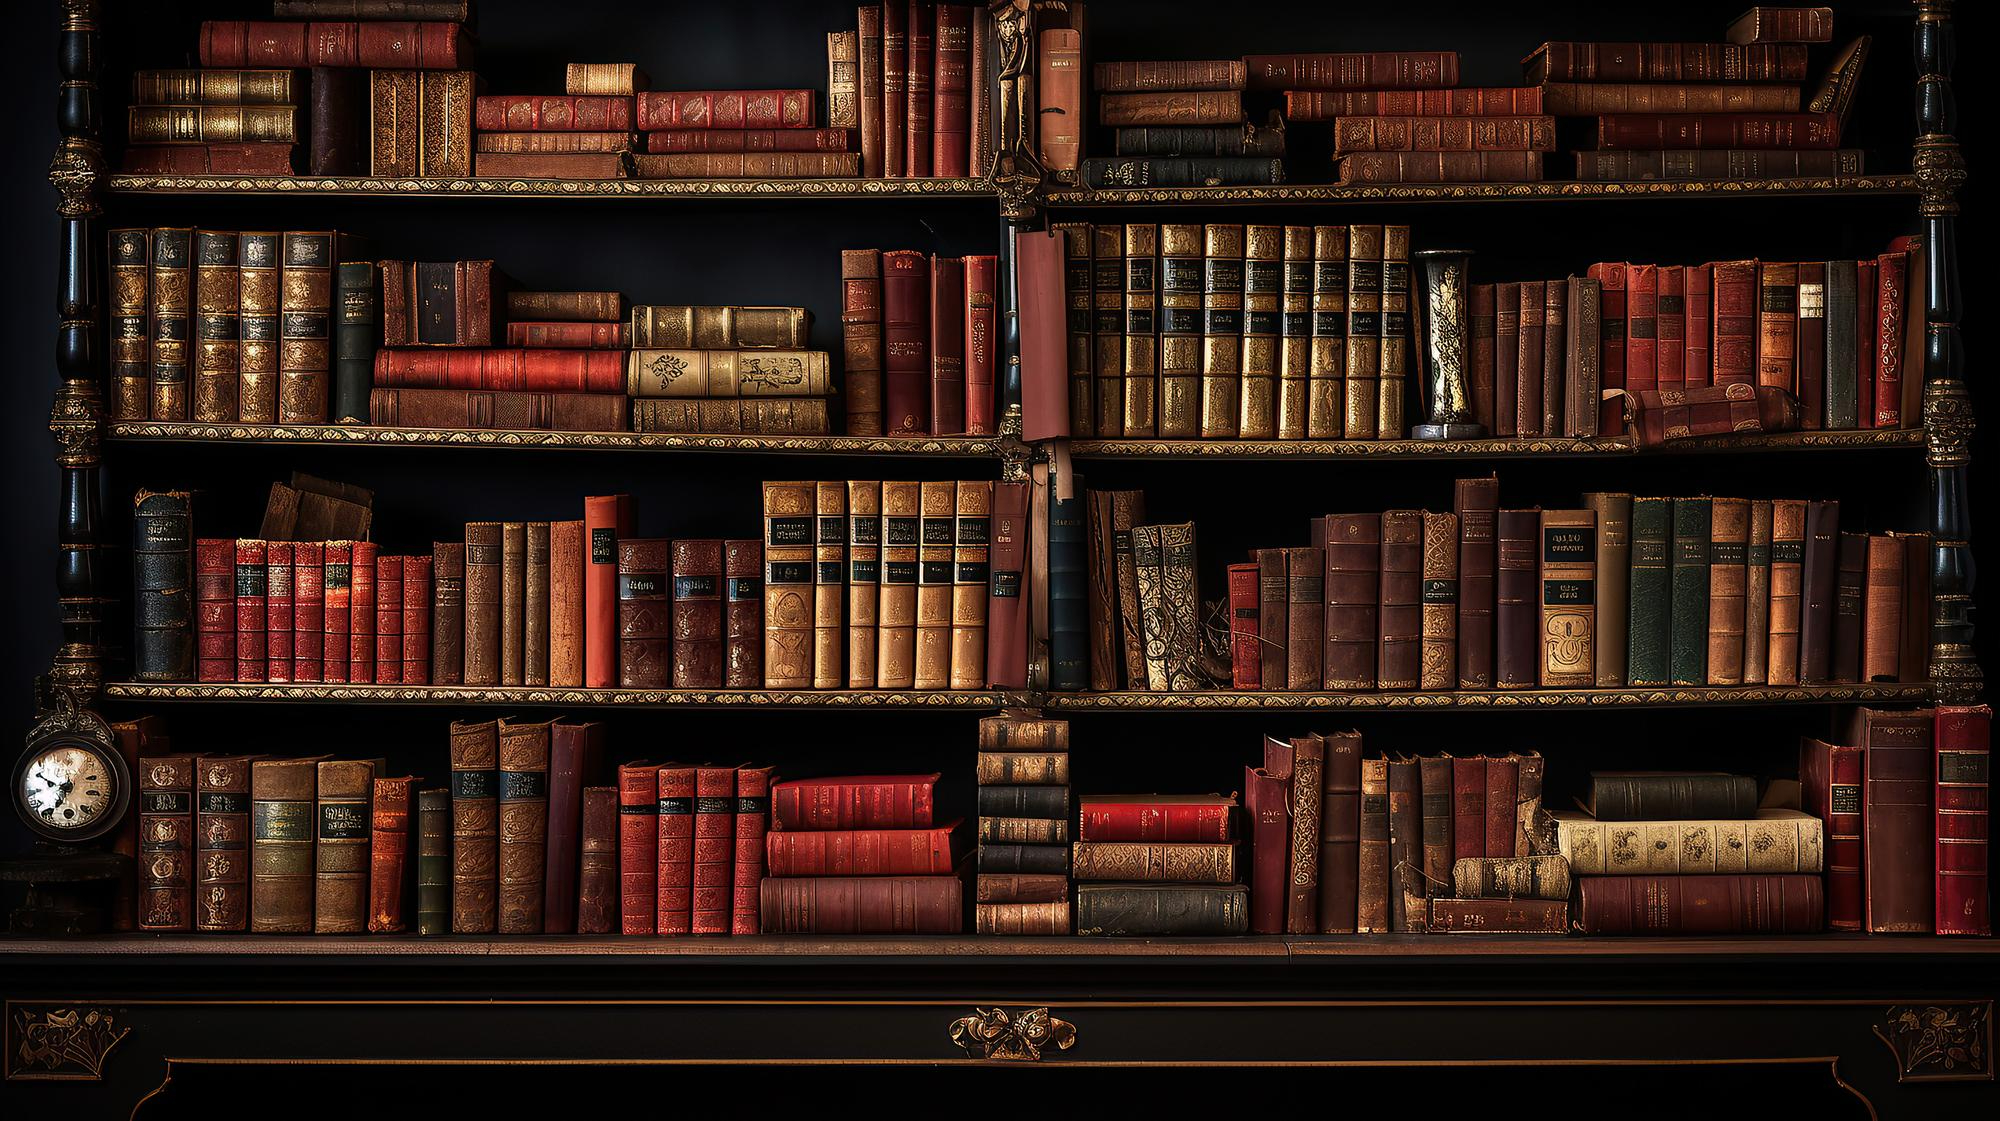
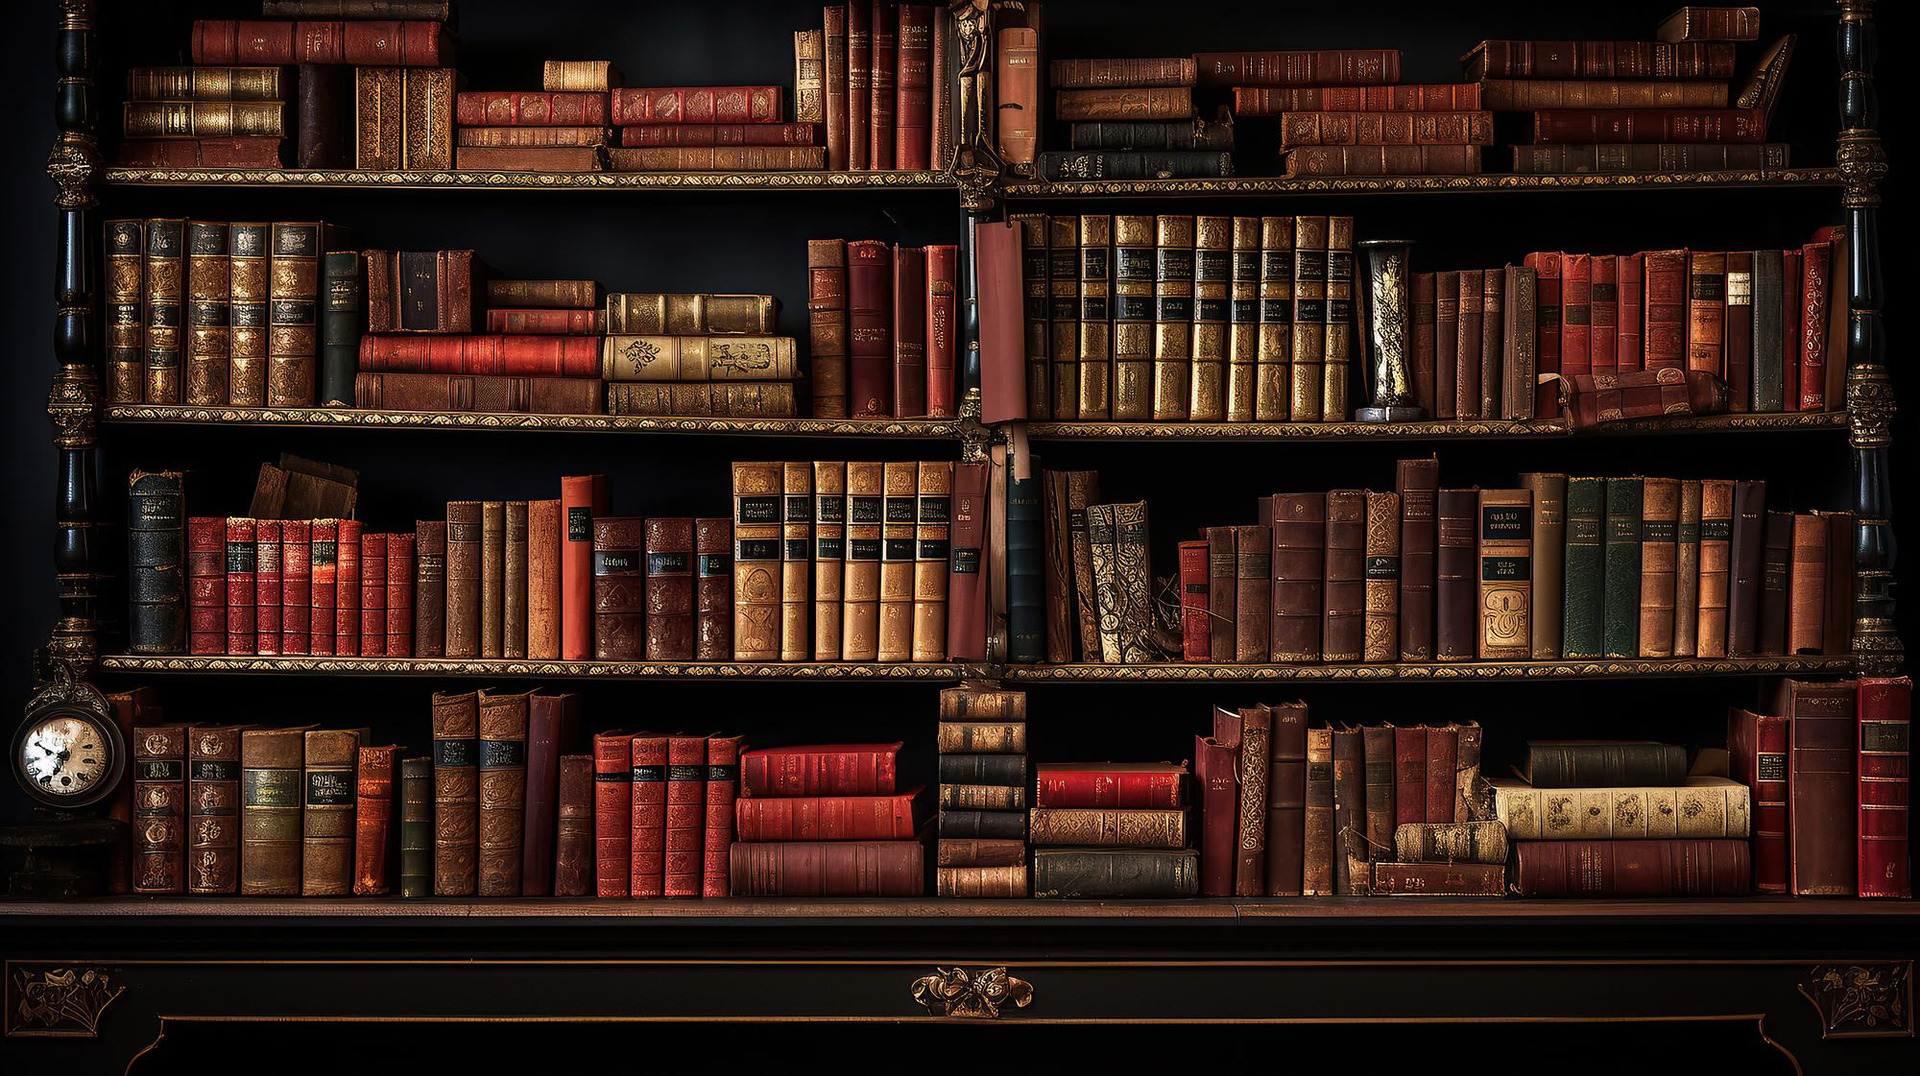
Content

diff --git a/digitallibrary/abouttheauthors.html b/digitallibrary/abouttheauthors.html
@@ -1,0 +1,88 @@
+<!DOCTYPE html>
+<html lang="en">
+
+<head>
+    <meta charset="UTF-8">
+    <meta name="viewport" content="width=device-width, initial-scale=1.0">
+    <title>About The Authors</title>
+    <link rel="stylesheet" href="styles/style.css">
+</head>
+
+<body>
+    <header>
+
+        <a id="logo_link" href="index.html">
+            <img class="logo" src="images/personal-website-logo.png" alt="Digital Library Logo">
+        </a>
+        <nav>
+            <a href="index.html">Home</a>
+            <a href="abouttheauthors.html">About the Authors</a>
+            <a href="contactus.html">Contact Us</a>
+            <a href="site-plan.html">Site Plan</a>
+        </nav>
+
+    </header>
+
+    <main class="authors_main">
+
+        <div class="grid_me">
+            <div class="authors">
+                <img class="author_img" src="images/brandon_sanderson.JPG" alt="Brandon Sanderson Profile">
+                <h3> Brandon Sanderson</h3>
+                <p>
+                    Brandon Sanderson is a highly acclaimed American author known for his contributions to the fantasy
+                    and science fiction genres. He is recognized for his imaginative world-building, intricate magic
+                    systems, and compelling characters. Sanderson's notable works include the "Mistborn" series, the
+                    "Stormlight Archive" series, and his completion of Robert Jordan's "The Wheel of Time" series. He is
+                    also known for his meticulous and prolific writing, engaging with his readers through social media,
+                    and his contributions to the genre as both an author and educator, as he teaches creative writing at
+                    Brigham Young University. Sanderson has gained a devoted following of readers who appreciate his
+                    unique storytelling style and his dedication to expanding the boundaries of speculative fiction Some
+                    of their works: Mistborn Trilogy: "Mistborn: The Final Empire" "Mistborn: The Well of Ascension"
+                    "Mistborn: The Hero of Ages" Stormlight Archive Series: "The Way of Kings" "Words of Radiance"
+                    "Oathbringer" "Rhythm of War" (as of my last knowledge update in January 2022, this book was
+                    scheduled for release) The Reckoners Series: "Steelheart" "Firefight" "Calamity" Elantris
+                    (standalone novel) Warbreaker (standalone novel) White Sand (a graphic novel series) Alcatraz vs.
+                    the Evil Librarians Series (a humorous fantasy series): "Alcatraz vs. the Evil Librarians" "The
+                    Scrivener's Bones" "The Knights of Crystallia" "The Shattered Lens" "The Dark Talent" Legion Series:
+                    "Legion" "Legion: Skin Deep" "Legion: Lies of the Beholder" The Rithmatist (young adult fantasy)
+                    Skyward Series: "Skyward" "Starsight" The Wheel of Time (completed Robert Jordan's epic fantasy
+                    series with the final three books): "The Gathering Storm" "Towers of Midnight" "A Memory of Light"
+                </p>
+            </div>
+
+
+            <div class="authors">
+                <img class="author_img" src="images/jrr-tolkien.JPG" alt="J.R.R Tolkien">
+                <h3>J.R.R Tolkien</h3>
+                <p>
+                    J.R.R. Tolkien, whose full name is John Ronald Reuel Tolkien, was an English writer, poet,
+                    philologist, and professor. He is best known for his contributions to the fantasy genre and is
+                    considered one of the most influential fantasy authors of the 20th century. Tolkien's works are
+                    celebrated for their rich world-building, intricate languages, and epic storytelling. Some of their
+                    works: "The Hobbit" (1937) "The Lord of the Rings" trilogy: "The Fellowship of the Ring" (1954) "The
+                    Two Towers" (1954) "The Return of the King" (1955) "The Silmarillion" (1977) "The Children of Húrin"
+                    (2007) "Unfinished Tales of Númenor and Middle-earth" (1980) "The History of Middle-earth" series
+                    "The Book of Lost Tales, Part I" (1983) "The Book of Lost Tales, Part II" (1984) "The Lays of
+                    Beleriand" (1985) "The Shaping of Middle-earth" (1986) "The Lost Road and Other Writings" (1987)
+                    "The Return of the Shadow" (1988) "The Treason of Isengard" (1989) "The War of the Ring" (1990)
+                    "Sauron Defeated" (1992) "Morgoth's Ring" (1993) "The War of the Jewels" (1994) "The Peoples of
+                    Middle-earth" (1996)
+
+                </p>
+            </div>
+
+        </div>
+
+
+    </main>
+
+
+    <footer>
+        <p>Digital Library &copy; 2023 - Ryan Lyman</p>
+        <p><a href="site-plan.html">Site Plan</a></p>
+        <p><a href="contactus.html">Have Questions? Contact Us</a></p>
+    </footer>
+</body>
+
+</html>

diff --git a/digitallibrary/index.html b/digitallibrary/index.html
@@ -1,0 +1,113 @@
+<!DOCTYPE html>
+<html lang="en">
+
+<head>
+    <meta charset="UTF-8">
+    <meta name="viewport" content="width=device-width, initial-scale=1.0">
+    <title>Digital Library</title>
+    <link rel="stylesheet" href="styles/style.css">
+</head>
+
+<body>
+    <header>
+
+        <a id="logo_link" href="index.html">
+            <img class="logo" src="images/personal-website-logo.png" alt="Digital Library Logo">
+        </a>
+        <nav>
+            <a href="index.html">Home</a>
+            <a href="abouttheauthors.html">About the Authors</a>
+            <a href="contactus.html">Contact Us</a>
+            <a href="site-plan.html">Site Plan</a>
+        </nav>
+
+    </header>
+    <div id="hero">
+        <div id="hero-box">
+            <img id="hero_img" src="images/hero.jpg" alt="Old Bookshelf">
+        </div>
+
+        <main class = "home_main">
+            <div class="grid_me">
+                <div class="books">
+                    <img class="book_img" src="images/steelheart.jpg" alt="Steelheart Book Cover">
+                    <h3> Steelheart</h3>
+                    <p> Our Ratings: 90/100 Community Ratings: Cooming Soon!
+                        "Steelheart" by Brandon Sanderson is an exciting and inventive entry into the young adult
+                        dystopian genre.
+                        The story is set in a world where people with extraordinary powers, known as Epics, rule with an
+                        iron fist,
+                        and
+                        the main character, David, is on a quest for revenge against one of the most powerful Epics of
+                        all:
+                        Steelheart.
+
+                        Sanderson's writing is engaging, and his world-building is top-notch as he explores the
+                        consequences of
+                        superhuman
+                        abilities in a gritty and dangerous setting. The story is filled with action, suspense, and a
+                        touch of
+                        humor, making
+                        it a page-turner for readers of all ages. "Steelheart" is a fresh and original take on the
+                        superhero genre,
+                        and it's a
+                        must-read for those who enjoy action-packed adventures and exploring the moral complexities of
+                        power and
+                        vengeance.
+
+                        Buy
+                        Amazon
+                        Barns and Noble
+                        Thrift Books
+                        Book Shop
+
+                    </p>
+                </div>
+
+
+                <div class="books">
+                    <img class="book_img" src="images/the-fellowship-of-the-ring.jpg"
+                        alt="The Fellowship of the Rings Book Cover">
+                    <h3>The Fellowship of the Rings</h3>
+                    <p> Ratings : 95/100 Community Ratings: Cooming Soon!
+
+                        "The Fellowship of the Ring" By J.R.R. Tolkien 
+                        The story follows the journey of Frodo Baggins and a diverse group of companions as they set out
+                        to destroy
+                        the One Ring, a malevolent artifact that could lead to the resurrection of the Dark Lord Sauron.
+                        Their
+                        mission
+                        takes them to Mount Doom in Mordor, where the ring must be destroyed. Along the way, they face
+                        an array of
+                        challenges, including battles with orcs and internal conflicts, all while forging strong bonds
+                        of friendship
+                        and heroism.
+
+                        Buy
+                        Amazon: https://www.amazon.com/s?k=The+fellowship+of+the+ring&i=stripbooks&ref=nb_sb_noss_1
+                        Barns and Noble: https://www.barnesandnoble.com/s/The%20fellowship%20of%20the%20ring
+                        Thrift Books:
+                        https://www.thriftbooks.com/browse/?b.search=the%20fellowship%20of%20the%20ring#b.s=mostPopular-desc&b.p=1&b.pp=30&b.oos&b.tile
+                        Book Shop: https://bookshop.org/search?keywords=The+fellowship+of+the+rings
+
+
+                    </p>
+                </div>
+
+            </div>
+        </main>
+
+
+
+        <footer>
+            <p>Digital Library &copy; 2023 - Ryan Lyman</p>
+            <p><a href="site-plan.html">Site Plan</a></p>
+            <p><a href="contactus.html">Have Questions? Contact Us</a></p>
+        </footer>
+
+
+
+
+</body>
+
+</html>

diff --git a/digitallibrary/contactus.html b/digitallibrary/contactus.html
@@ -1,0 +1,62 @@
+<!DOCTYPE html>
+<html lang="en">
+
+<head>
+    <meta charset="UTF-8">
+    <meta name="viewport" content="width=device-width, initial-scale=1.0">
+    <title>Contact Us</title>
+    <link rel="stylesheet" href="styles/style.css">
+
+</head>
+
+<body>
+    <header>
+
+        <a id="logo_link" href="index.html">
+            <img class="logo" src="images/personal-website-logo.png" alt="Digital Library Logo">
+        </a>
+        <nav>
+            <a href="index.html">Home</a>
+            <a href="abouttheauthors.html">About the Authors</a>
+            <a href="contactus.html">Contact Us</a>
+            <a href="site-plan.html">Site Plan</a>
+        </nav>
+
+    </header>
+
+    <main class="contact_us_main">
+        <h2>Contact Us</h2>
+        <p>
+            Thank you for your interest in reaching out to us. We value your feedback, questions, and
+            inquiries. Please feel free to get in touch with us using the following contact information:
+            Email:lym21005@byui.edu Customer Support: 816-555-7733 Connect with us on socal media:
+        </p>
+
+        <div class="social">
+            <a href="https://facebook.com" target="_blank">
+                <img src="images/facebook.png" alt="Facebook icon">
+            </a>
+            <a href="https://twitter.com" target="_blank">
+                <img src="images/twitter.png" alt="Twitter icon">
+            </a>
+            <a href="https://instagram.com" target="_blank">
+                <img src="images/instagram.png" alt="instagram icon">
+            </a>
+        </div>
+
+        <p>
+            Your satisfaction is important to us, and we appreciate your feedback as we continue to improve our
+            services. Thank you for choosing Digital Library!
+            We strive to respond to your messages promptly and look forward to assisting you. For business
+        </p>
+    </main>
+
+    <footer>
+        <p>Digital Library &copy; 2023 - Ryan Lyman</p>
+        <p><a href="site-plan.html">Site Plan</a></p>
+        <p><a href="contactus.html">Have Questions? Contact Us</a></p>
+
+    </footer>
+</body>
+
+</html>

diff --git a/digitallibrary/styles/style.css b/digitallibrary/styles/style.css
@@ -1,0 +1,39 @@
+
+.grid_me{
+    display: grid;
+    grid-template-columns: 1fr 1fr;
+    padding: 25px;
+    gap: 25px;
+}
+
+
+footer {
+    /* background-color: #22577A;
+    color: #4ce2e4; */
+    padding: 25px 50px;
+    margin-top: 200px;
+    display: flex;
+    justify-content: space-around;
+    align-items: center;
+    max-height: 60px;
+}
+
+nav {
+    display: flex;
+    justify-content: space-around;
+}
+
+nav a {
+    text-align: center;
+    /* color: #4ce2e4; */
+    text-decoration: none;
+    padding: 35px;
+}
+
+#hero_img{
+    max-width: 100%;
+}
+
+.social a{
+    text-decoration: none;
+}
